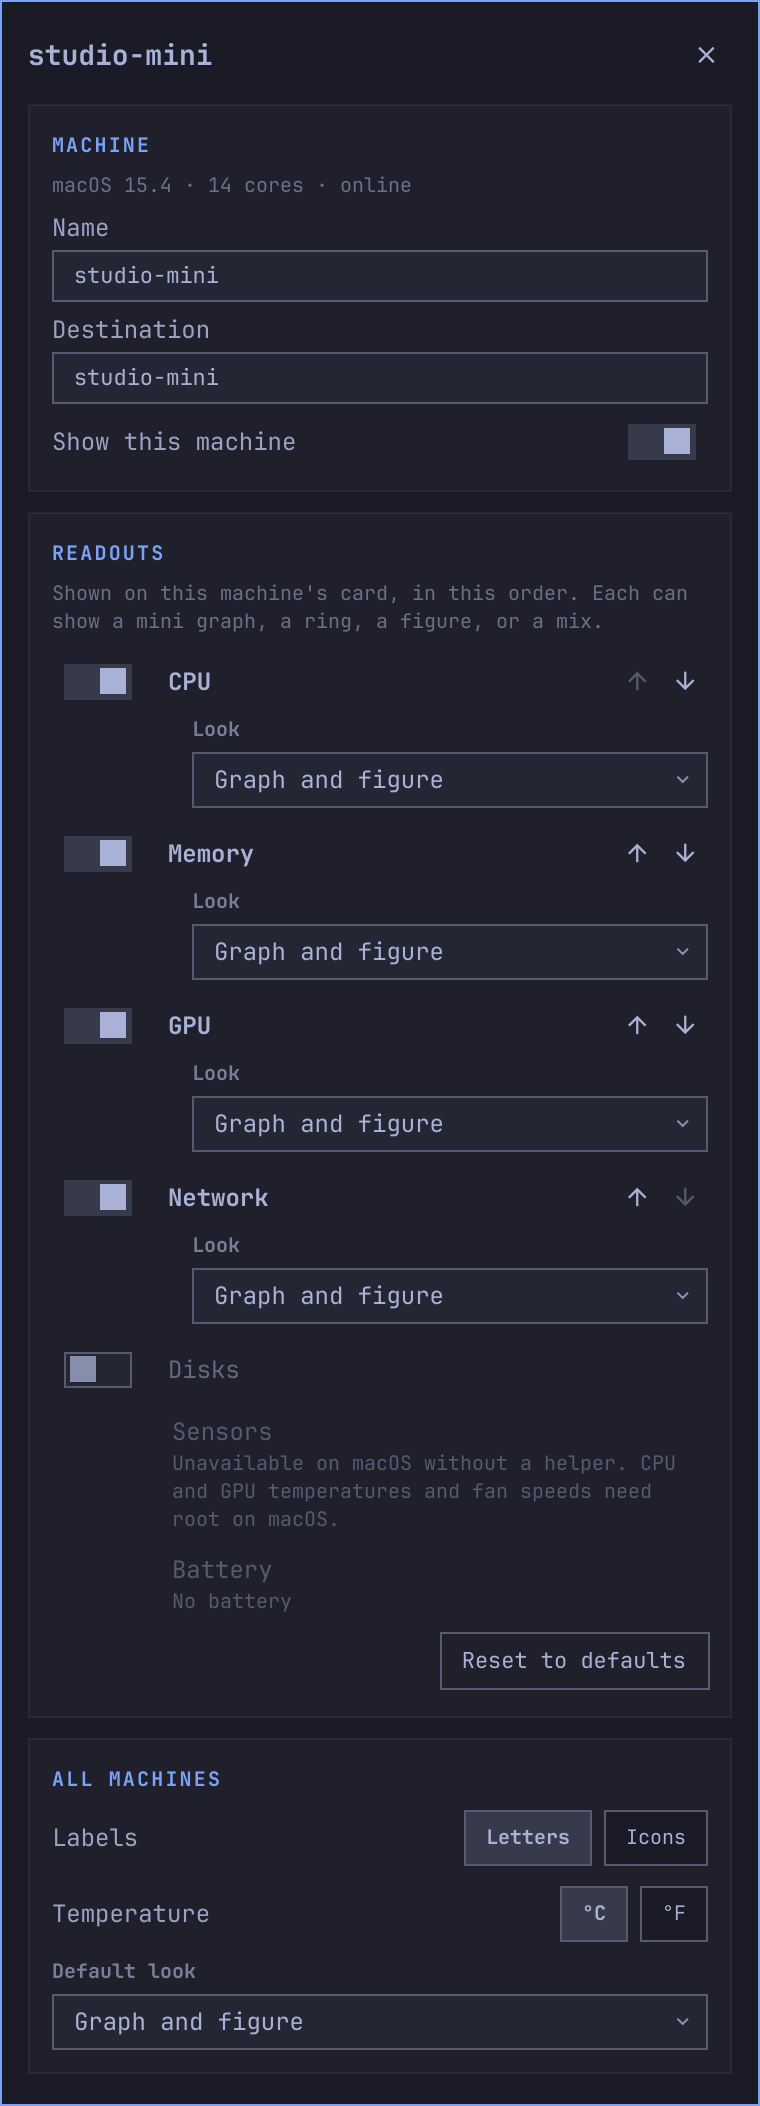
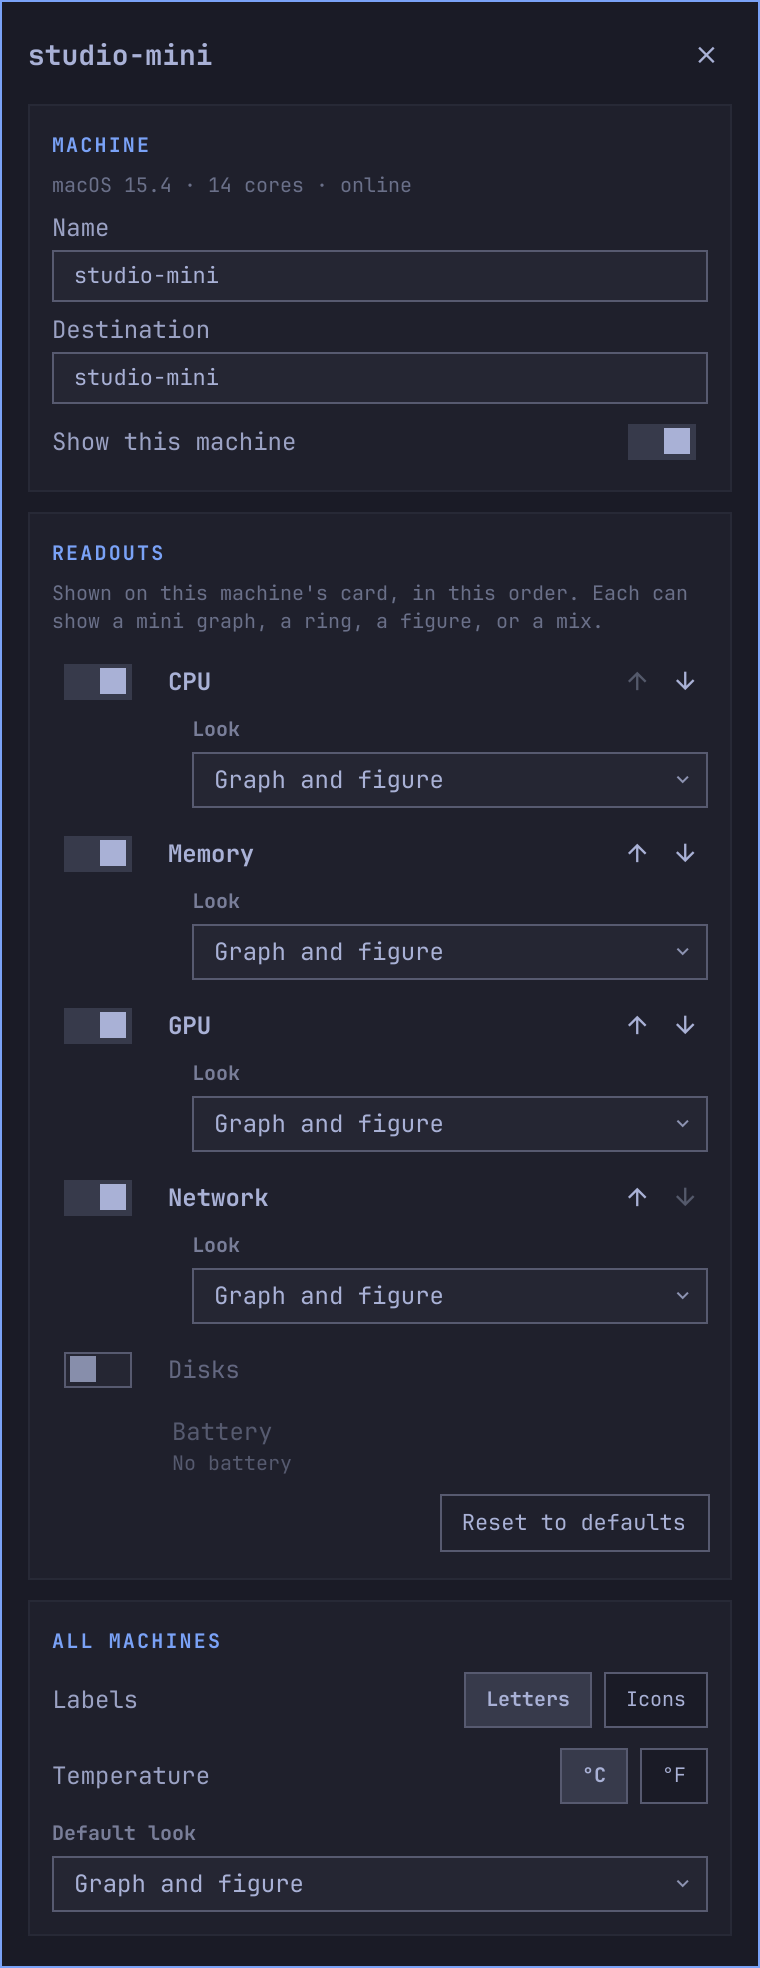
Drop root-only sensor messaging; hide Sensors on Macs that report none
Vitals only shows what each machine reports without root, so the settings
page no longer explains what macOS keeps behind sudo.

Claude-Session: https://claude.ai/code/session_018qFeds3yS2zkGmM6H7YeMr

diff --git a/ui/MachineSettings.qml b/ui/MachineSettings.qml
@@ -34,7 +34,10 @@ Column {
   readonly property string defaultStyle: service ? service.defaultStyle : "both"
 
   readonly property var available: Model.MODULE_IDS.filter(function(id) { return Model.moduleAvailable(id, root.info) })
-  readonly property var unavailable: Model.MODULE_IDS.filter(function(id) { return !Model.moduleAvailable(id, root.info) })
+  readonly property var unavailable: Model.MODULE_IDS.filter(function(id) {
+    if (id === "sensors" && root.info.os === "macos") return false
+    return !Model.moduleAvailable(id, root.info)
+  })
   // The machine's own list, keeping modules it can't show right now so a
   // GPU that comes back later reappears where it was.
   readonly property var allModules: Model.machineModules(machine, service ? service.defaultModules : null)
@@ -428,17 +431,6 @@ Column {
             }
           }
 
-          Text {
-            visible: root.info.os === "macos" && text !== ""
-            width: parent.width
-            textFormat: Text.PlainText
-            wrapMode: Text.WordWrap
-            text: root.info.sensorsNote ? root.info.sensorsNote + ", so only the battery is listed." : ""
-            color: root.foreground
-            opacity: 0.5
-            font.family: root.fontFamily
-            font.pixelSize: Style.font.caption
-          }
         }
       }
     }
@@ -469,12 +461,7 @@ Column {
           width: parent.width
           textFormat: Text.PlainText
           wrapMode: Text.WordWrap
-          text: {
-            var why = Model.unavailableReason(modelData, root.info)
-            if (modelData === "sensors" && root.info.os === "macos" && root.info.sensorsNote)
-              why += ". " + root.info.sensorsNote + "."
-            return why
-          }
+          text: Model.unavailableReason(modelData, root.info)
           color: root.foreground
           opacity: 0.4
           font.family: root.fontFamily

diff --git a/dev/harness/fixtures.js b/dev/harness/fixtures.js
@@ -45,7 +45,7 @@ function online(o) {
     gpus: (o.gpus || []).map(function(g) { return { id: g.id, name: g.name, vendor: g.vendor, util: g.util !== null } }),
     disks: o.disks || [],
     sensors: o.sensors || [],
-    sensorsNote: o.os === "macos" ? "CPU and GPU temperatures and fan speeds need root on macOS" : ""
+    sensorsNote: ""
   }
   var history = { cpuUser: user, cpuSys: sys, mem: mem, rx: rx, tx: tx, gpu: {}, gpuMem: {}, diskRead: {}, diskWrite: {}, battery: [] }
   var sample = {

diff --git a/Model.js b/Model.js
@@ -462,10 +462,7 @@ function unavailableReason(module, info) {
   if (module === "gpu") return "No GPU found"
   if (module === "battery") return "No battery"
   if (module === "disks") return "No disks found"
-  if (module === "sensors") {
-    if (info && info.os === "macos") return "Unavailable on macOS without a helper"
-    return "No sensors found"
-  }
+  if (module === "sensors") return "No sensors found"
   return ""
 }
 

diff --git a/README.md b/README.md
@@ -58,7 +58,7 @@ the sidebar scrolls.
 | Network | `/proc/net/dev`, interfaces backed by a real device | `netstat -ibn`, `en*` interfaces |
 | GPU | AMD: `gpu_busy_percent`, VRAM and temperature from sysfs. NVIDIA: `nvidia-smi`. Intel: clock only (the kernel reports no load) | Apple GPU load from `ioreg` IOAccelerator "Device Utilization %", plus GPU memory in use |
 | Disks | `/proc/diskstats` per whole disk; space from `df`, mapped through partitions, LUKS and LVM to the disk underneath | Read and write from `ioreg` IOBlockStorageDriver, all disks together; space of the startup volume's container from `df` |
-| Sensors | Every hwmon temperature and fan (`/sys/class/hwmon`), plus "CPU temperature" for the CPU package | Battery temperature only. CPU and GPU temperatures and fan speeds need root (or a helper app) on macOS, so Vitals offers no others there and says so on the settings page |
+| Sensors | Every hwmon temperature and fan (`/sys/class/hwmon`), plus "CPU temperature" for the CPU package | Battery temperature (MacBooks) |
 | Battery | `/sys/class/power_supply` (the system battery, not mice or headsets) | `ioreg` AppleSmartBattery |
 
 A GPU that runtime power management has put to sleep is reported as idle
@@ -131,7 +131,7 @@ window's place until you close it.
   both. Sensors list every temperature and fan it reported. A machine with
   several GPUs lists them, and **Show VRAM** adds a memory readout per GPU.
   Readouts the machine doesn't have are listed underneath with the reason, such
-  as "No battery" or "Unavailable on macOS without a helper".
+  as "No battery".
   **Reset to defaults** returns the machine to the default readouts.
 - **All machines.** Letters or icons for labels, °C or °F, and the default look.
 
@@ -306,10 +306,8 @@ marked **stale** after three missed samples.
 - Vitals uses only built-in tools: `iostat`, `vm_stat`, `netstat`, `sysctl`,
   `sw_vers`, `scutil`, and `ioreg` and `df` for the GPU, disk and battery
   readouts. Nothing needs root.
-- Temperatures: only the battery's (MacBooks). macOS hands CPU and GPU
-  temperatures and fan speeds only to root or to a compiled helper using
-  private frameworks, which Vitals doesn't install; desktop Macs list the
-  sensors readout as unavailable.
+- Temperatures: the battery's, on MacBooks. Vitals reports only what macOS
+  hands out without root, so a desktop Mac has no sensors readout.
 - Memory "used" is App Memory plus Wired plus Compressed, the same figure
   Activity Monitor shows as Memory Used. It leaves out file cache, which
   `top`'s PhysMem counts.
